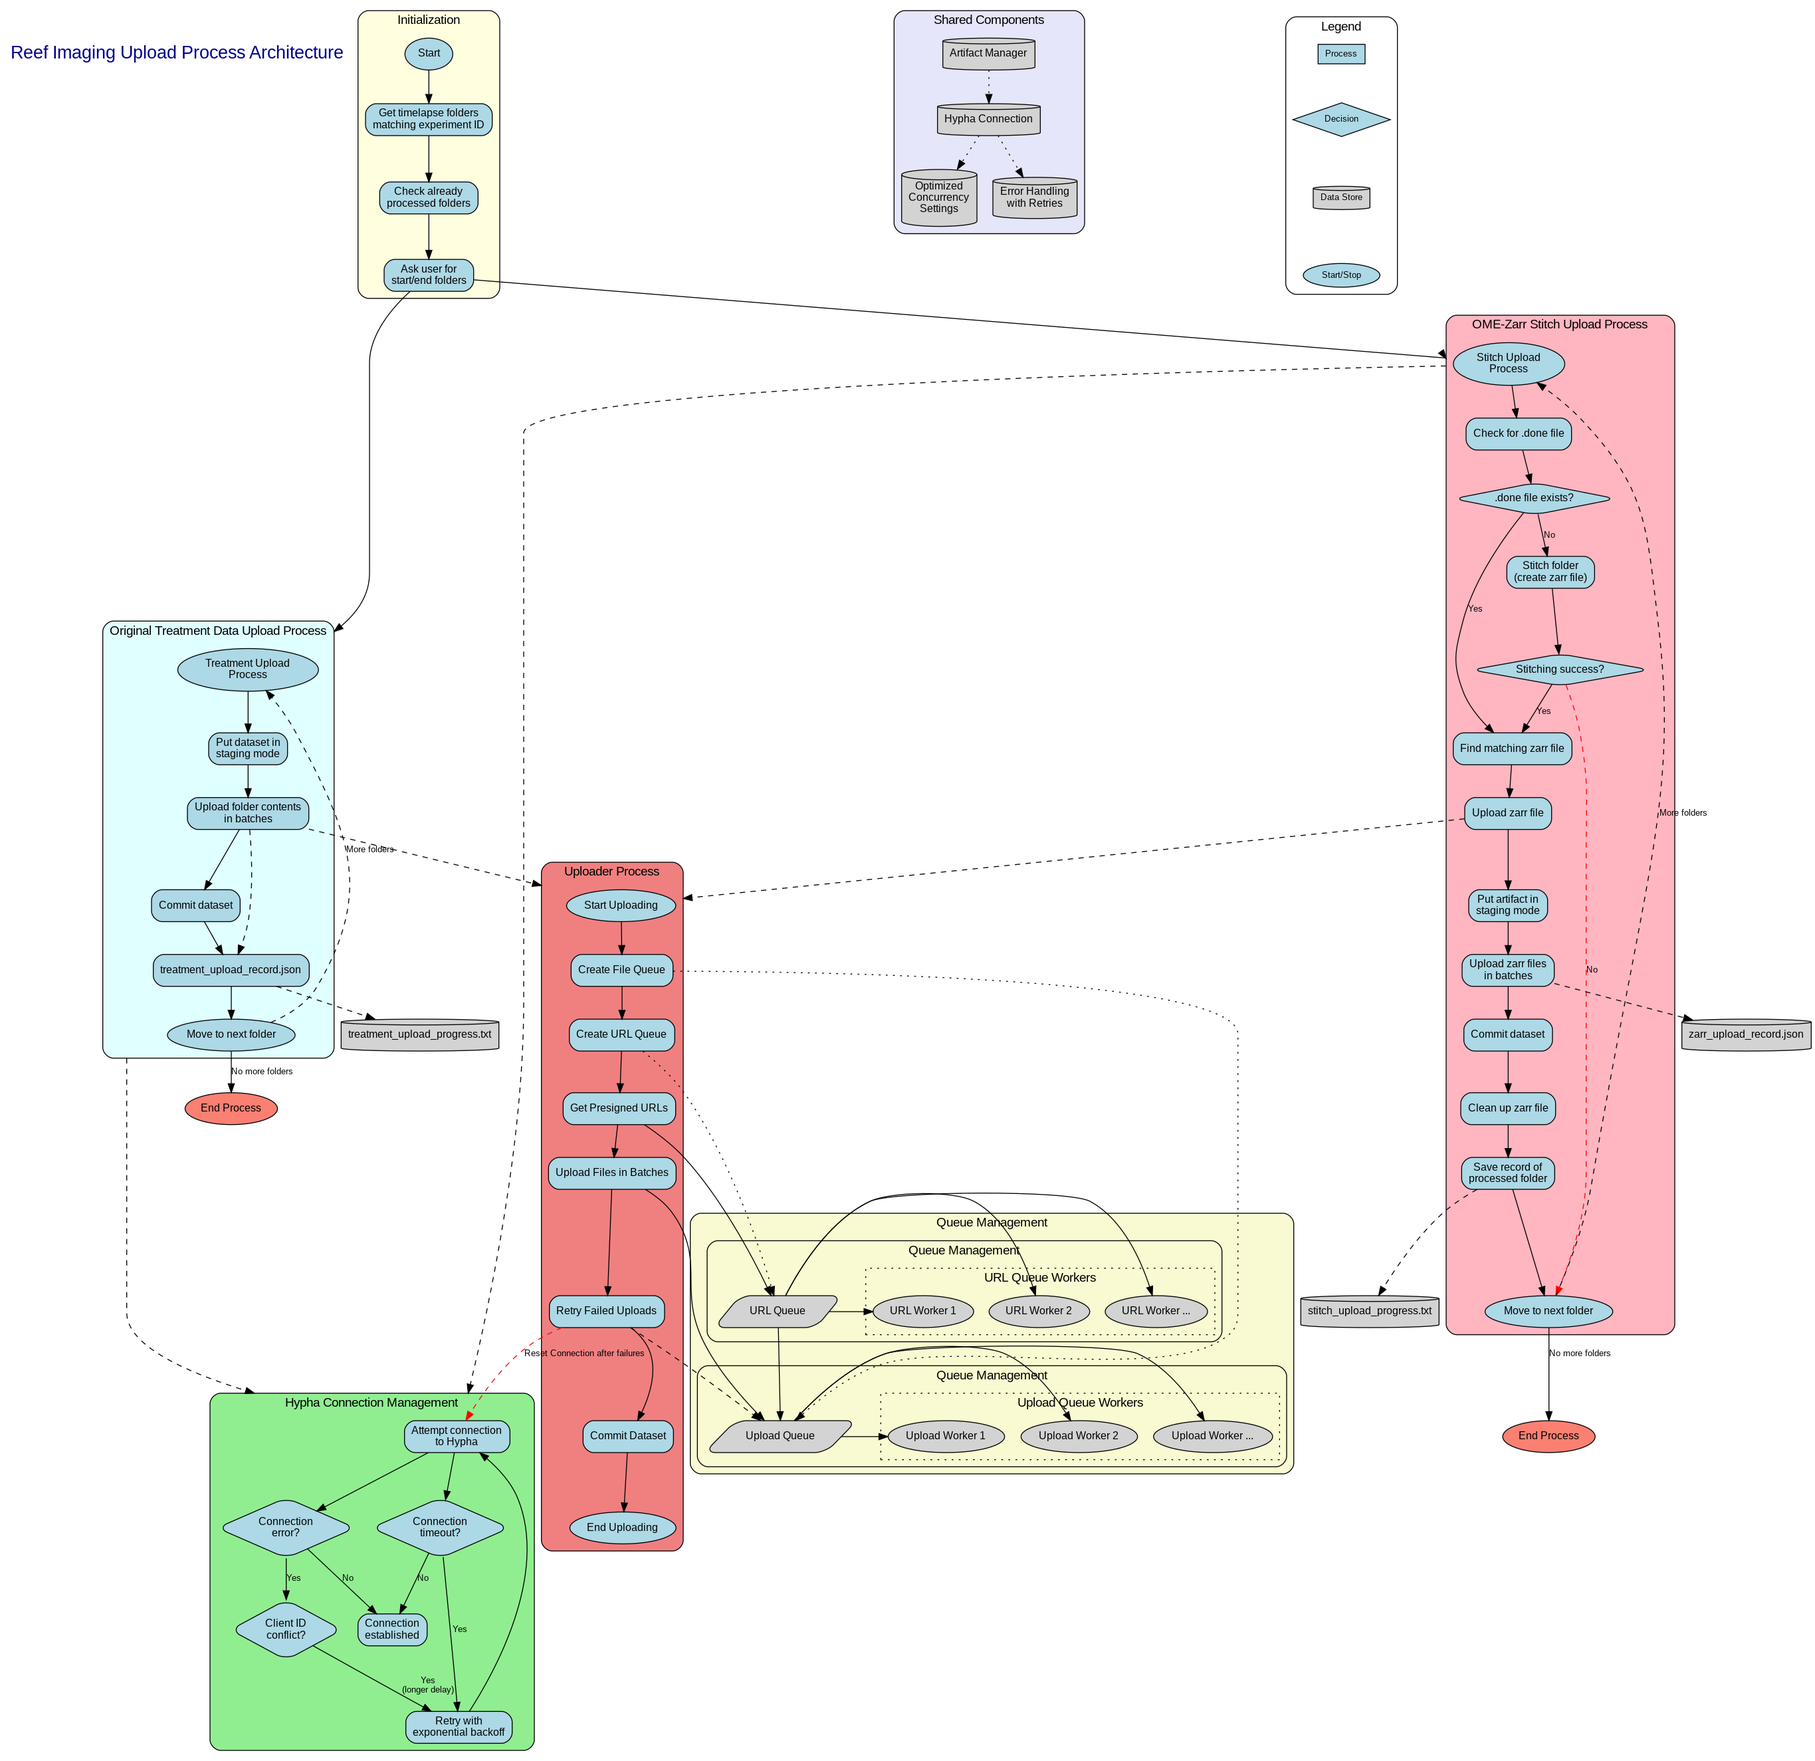
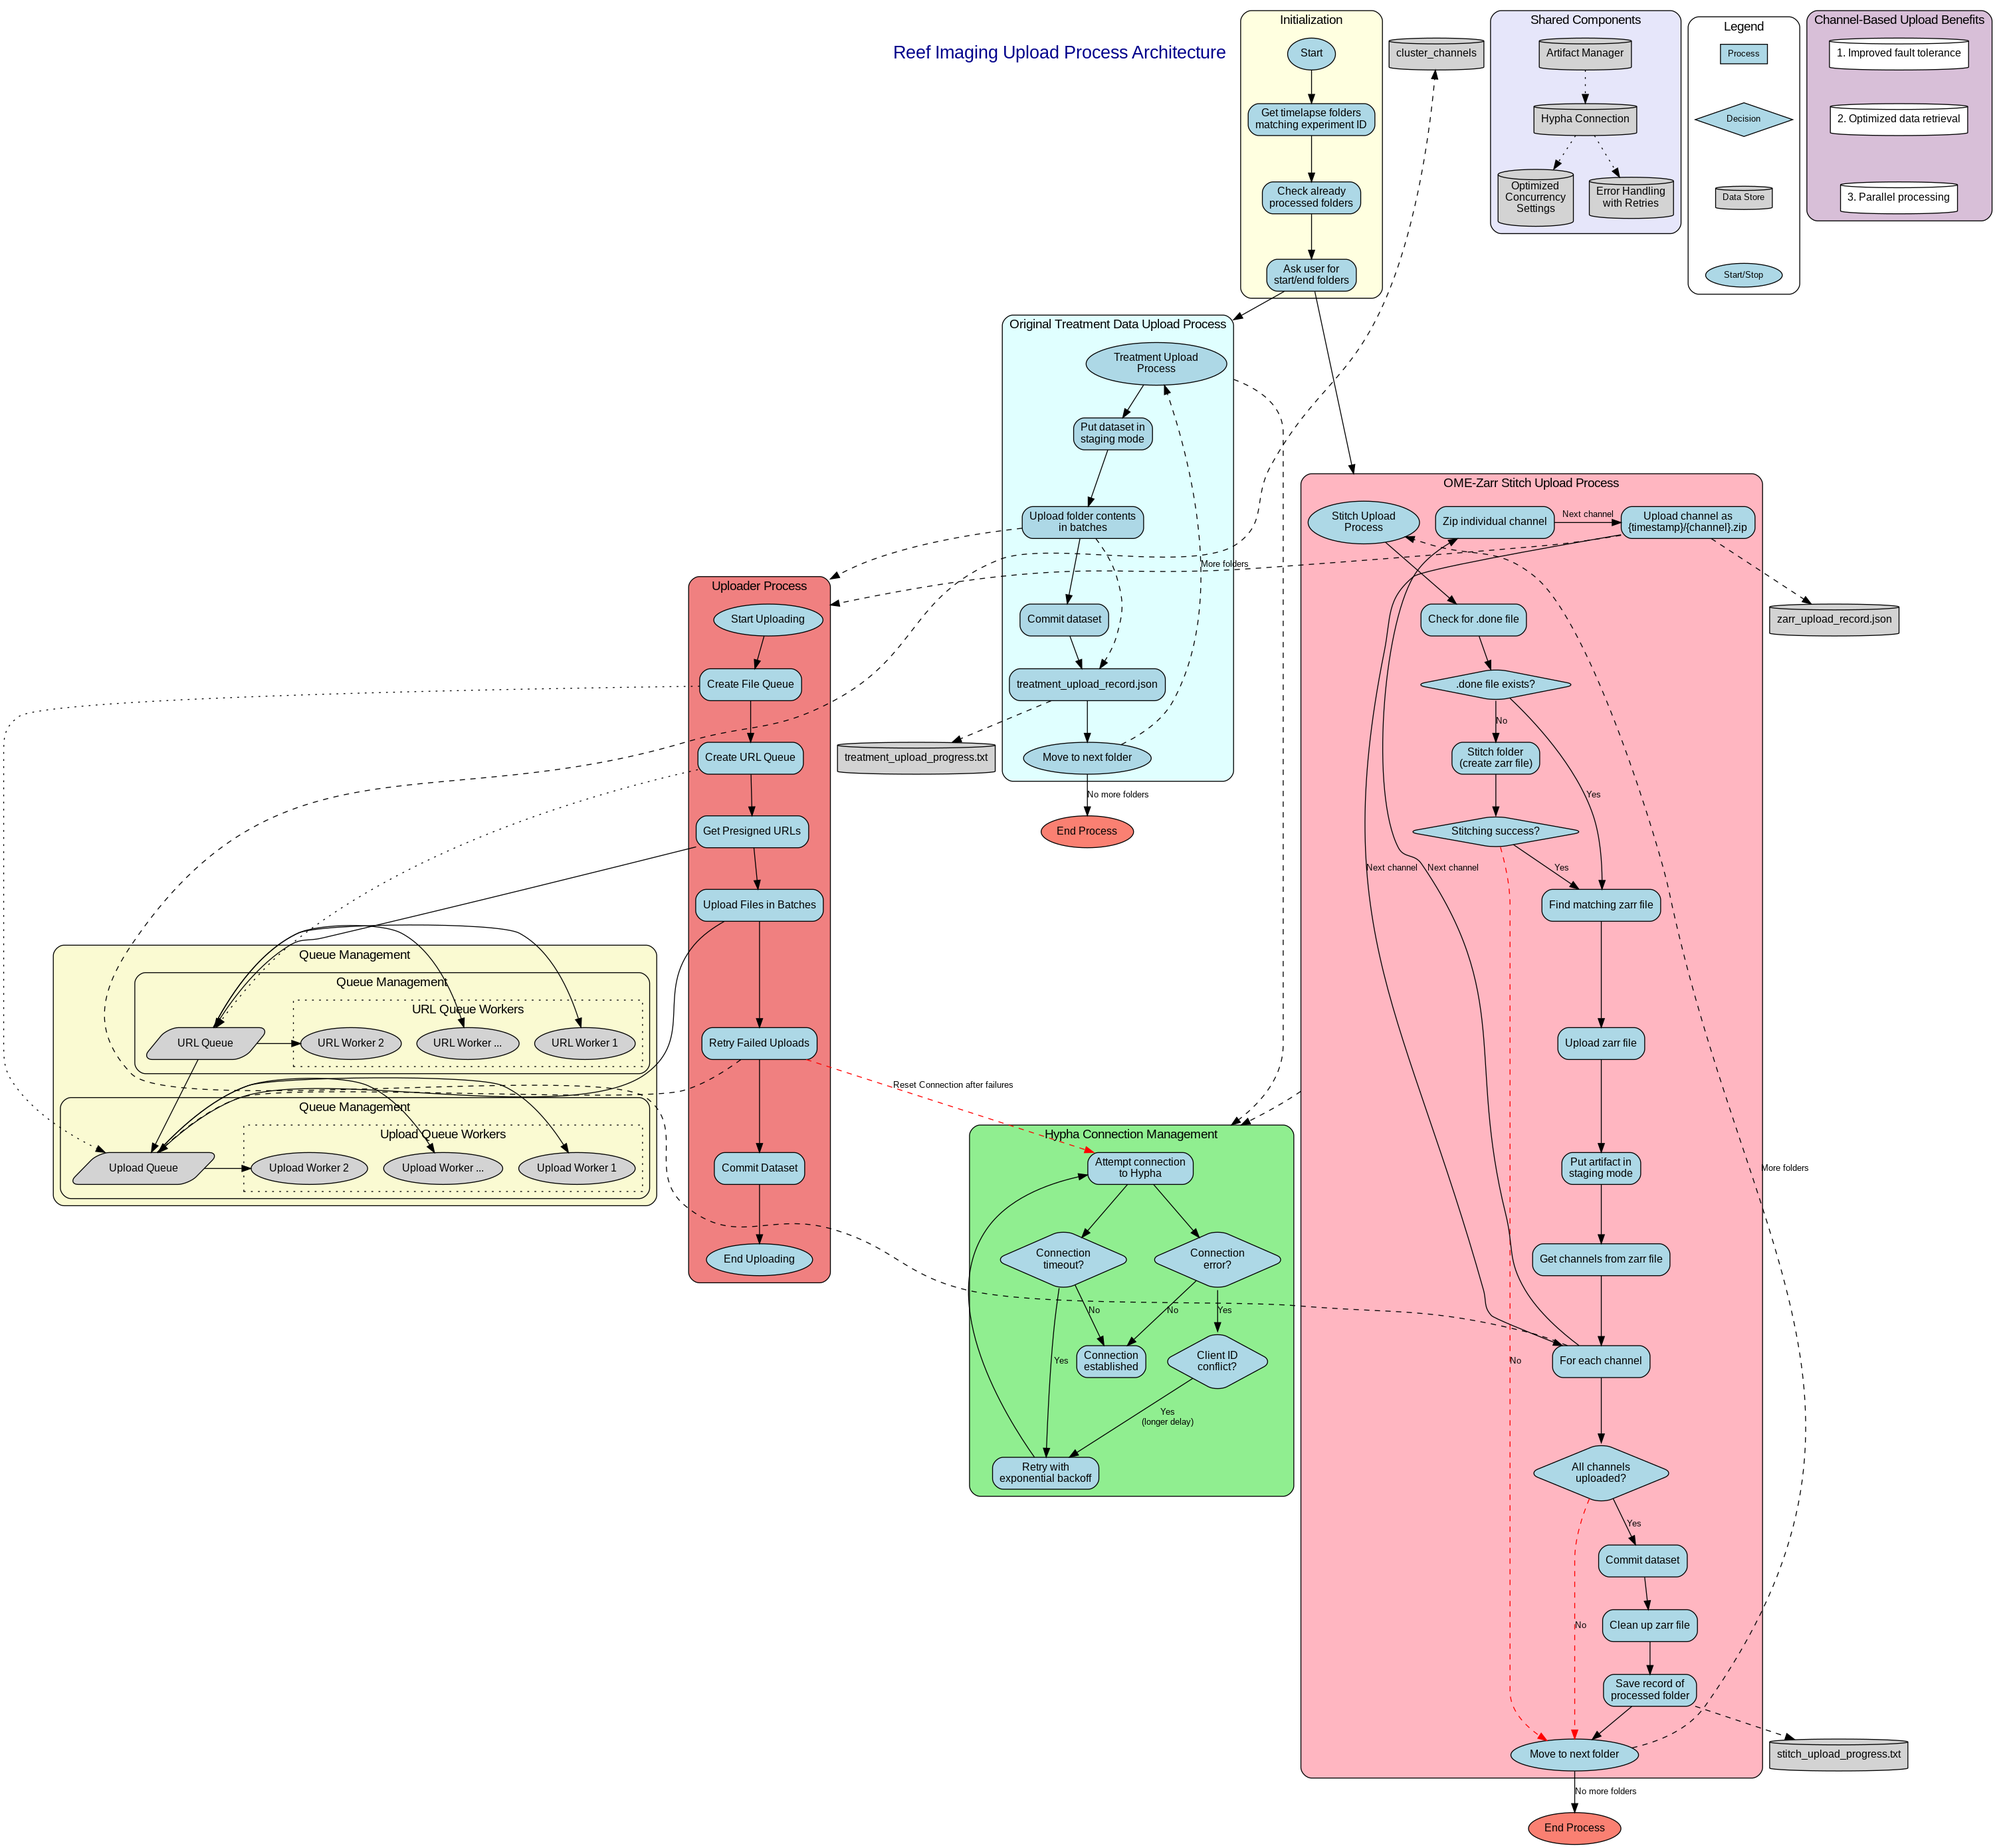
update workflow diagram and readme file

diff --git a/reef_imaging/hypha_tools/artifact_manager/README.md b/reef_imaging/hypha_tools/artifact_manager/README.md
@@ -7,6 +7,7 @@ This package provides a set of classes and utilities for working with the Hypha 
 - **Gallery Management**: Create and manage galleries and datasets
 - **File Uploading**: Upload files to the Hypha Artifact Manager with robust error handling and retries
 - **Treatment Data Handling**: Upload and manage scientific treatment data
+- **Channel-Based Upload**: Upload zarr channels as individual zip files for optimized data access
 
 ## Workflow Overview
 
@@ -16,6 +17,13 @@ The package includes two main upload workflows:
 2. **Stitch Upload**: Stitches microscopy images into zarr files before uploading
 
 Both workflows use optimized connection handling with retry logic, concurrent batch uploads, and progress tracking.
+
+### Zarr Channel Upload Workflow
+
+The latest version implements a channel-based upload approach for zarr files:
+1. The stitcher creates a zarr file with multiple channels (e.g., BF_LED_matrix_full, Fluorescence_488_nm_Ex, Fluorescence_561_nm_Ex)
+2. Each channel is uploaded as a separate zip file with the pattern `{timestamp}/{channel}.zip`
+3. This approach allows for more efficient data retrieval and better fault tolerance during uploads
 
 ![Reef Imaging Upload Process Architecture](docs/upload_process_diagram.png)
 
@@ -74,32 +82,52 @@ async def create_gallery():
 asyncio.run(create_gallery())
 ```
 
-### Upload Files
+### Upload Zarr Channels
 
 ```python
 import asyncio
+import os
 from reef_imaging.hypha_tools.artifact_manager import ArtifactUploader
 
-async def upload_files():
-    # Upload zarr files
-    zarr_paths = [
-        "/path/to/data.zarr",
-    ]
+async def upload_zarr_channels():
+    # Path to zarr file
+    zarr_path = "/path/to/2025-04-29_15-38-36.zarr"
     
     uploader = ArtifactUploader(
-        artifact_alias="my-dataset",
+        artifact_alias="agent-lens/image-map-20250429-treatment",
         record_file="upload_record.json"
     )
     
-    success = await uploader.upload_zarr_files(zarr_paths)
+    # Connect to Hypha
+    await uploader.connect_with_retry()
     
-    if success:
-        print("Files uploaded successfully!")
-    else:
-        print("Some files failed to upload")
+    try:
+        # Get all channels from the zarr file
+        channels = [d for d in os.listdir(zarr_path) 
+                   if os.path.isdir(os.path.join(zarr_path, d))]
+        
+        # Upload each channel as a separate zip file
+        for channel in channels:
+            base_name = os.path.basename(zarr_path).replace('.zarr', '')
+            channel_path = os.path.join(zarr_path, channel)
+            relative_path = f"{base_name}/{channel}.zip"
+            
+            success = await uploader.zip_and_upload_folder(
+                folder_path=channel_path,
+                relative_path=relative_path,
+                delete_zip_after=True
+            )
+            
+            if success:
+                print(f"Channel {channel} uploaded successfully!")
+            else:
+                print(f"Failed to upload channel {channel}")
+    finally:
+        if uploader.connection:
+            await uploader.connection.disconnect()
 
 # Run the async function
-asyncio.run(upload_files())
+asyncio.run(upload_zarr_channels())
 ```
 
 ### Upload Treatment Data
